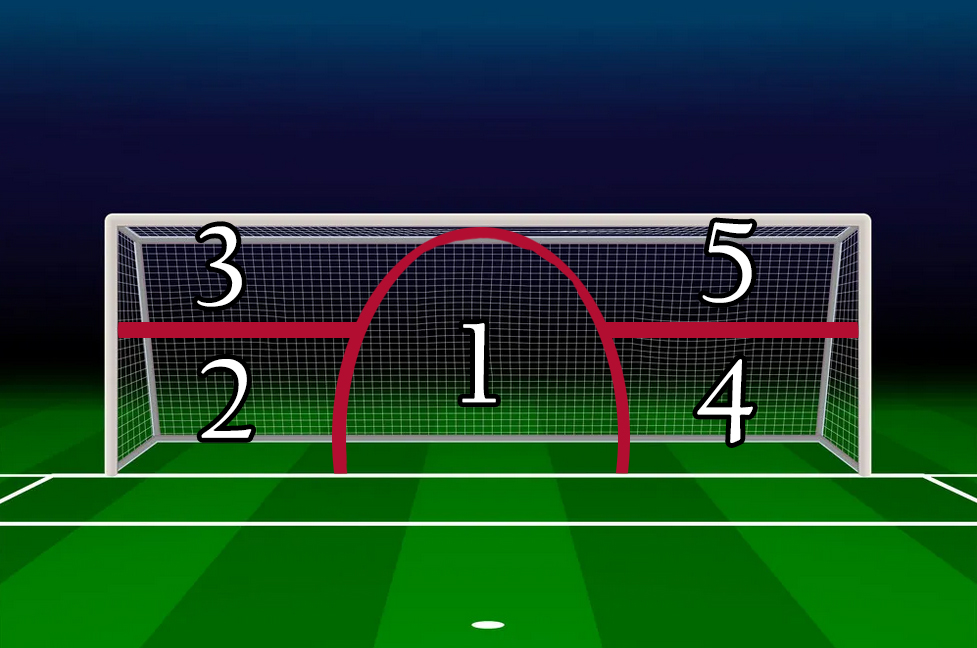
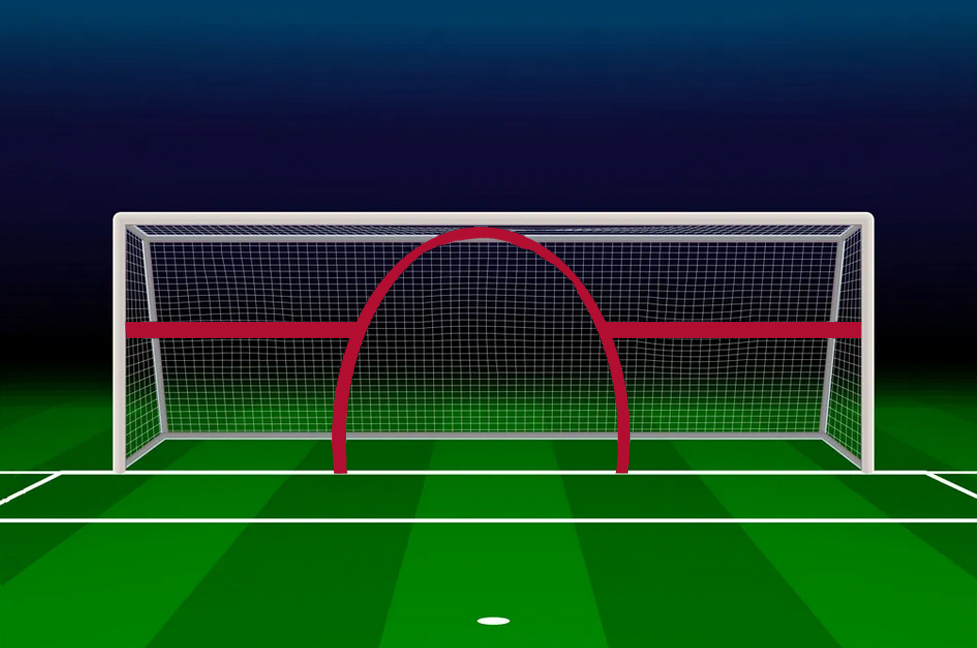
general styling

diff --git a/script.js b/script.js
@@ -14,8 +14,15 @@ let jugadoresPorDefecto = [
 ]
 
 window.addEventListener('load', () => {
-    jugadores = jugadoresPorDefecto.slice()
+    if (localStorage.getItem("savedPlayers") == null) {
+        jugadores = jugadoresPorDefecto.slice()
+    } else {
+        let savedContent = localStorage.getItem("savedPlayers")
+        jugadores = JSON.parse(savedContent)
+    }
     cargarListaPlantel(jugadores);
+    console.log("Jugadores:")
+    console.log(jugadores)
 });
 
 const reiniciarPuntajes = () => {
@@ -38,40 +45,61 @@ const esGol = (zonaElegida) => {
     return true
 }
 
-function patear() {
-    //Devuelve una cadena dependiendo la elección del jugador
-    while (true) {
-        index = intentos -1
-        let ingreso = prompt(" INTENTO N° " + intentos + "\nEjecuta " + jugadores[index].nombre + " " + jugadores[index].apellido + " con la casaca n° " + jugadores[index].camiseta + "\nIngrese a dónde quiere patear... \n Puede tomar la imagen de referencia! \n cancelar para salir ")
-        if (ingreso === null) {
-            return "salir"
+
+function patear(ingreso) {
+    console.log("=== COMIENZO DE PATADA ===")
+    console.log("kickbuttons:" + kickButtons)
+    
+    for (let kb of kickButtons){
+        kb.style.visibility = "hidden"
+    }
+    
+    intentos++
+    console.log("Se pateó a " + ingreso)
+    console.log("intentos:" + intentos)
+    let index = intentos - 1
+    console.log("index :" + index)
+    let messageWindow = document.createElement("div")
+    messageWindow.className="message-window"    
+    messageWindow.innerHTML = `
+    <h3>INTENTO N° ${intentos}</h3><p>Ejecuta ${jugadores[index].nombre} ${jugadores[index].apellido}</p><p>con la casaca n°  ${jugadores[index].camiseta}</p>
+    `
+    playArea.appendChild(messageWindow)
+    
+    let mensajePenal = "<p>Se prepara "+ jugadores[index].apellido + " ...</p>"
+    if (ingreso === 1) {
+        mensajePenal += "<p>Patea al mediooo...</p>"
+    } else if (ingreso % 2 === 0) {
+        mensajePenal += "<p>Patea abajooo...</p>"
+    } else {
+        mensajePenal += "<p>Dispara al angulooo....</p>"
+    }
+    if (esGol(ingreso)) {
+        mensajePenal += "</p>GOOOOOOOL!</p>"
+    } else {
+        mensajePenal += "</p>ATAJÓ EL ARQUERO!</p>"
+    }
+    setTimeout( () => {
+        messageWindow.innerHTML = `<p>${mensajePenal}</p>`
+    } , 3000)
+    setTimeout( () => {
+        messageWindow.remove()
+        for (let kb of kickButtons) {
+            kb.style.visibility = "visible"
         }
-        if (isNaN(ingreso)) {
-            alert("Debe ingresar sólo números! Intente nuevamente...")
-        } else if (!Number.isInteger(Number(ingreso))) {
-            alert("Debe ingresar sólo números enteros! Intente nuevamente...")
-        } else if (ingreso < 1 || ingreso > 5) {
-            alert("Ingreso inválido! Intente nuevamente...")
-        } else {
-            // zonaElegida = ingreso
-            let mensajePenal = "Se prepara "+ jugadores[index].apellido + " ...\n"
-            if (ingreso === 1) {
-                mensajePenal += "Patea al mediooo... \n"
-            } else if (ingreso % 2 === 0) {
-                mensajePenal += "Patea abajooo...\n"
-            } else {
-                mensajePenal += "Dispara al angulooo....\n"
-            }
-            
-            if (esGol(ingreso)) {
-                alert(mensajePenal + "GOOOOOOOL!")
-                return "gol"
-            } else {
-                alert(mensajePenal + "ATAJÓ EL ARQUERO!")
-                return "atajo"
-            }
+        if (intentos === 5 ){
+            terminarPartida()
         }
     }
+    , 6000)
+}
+
+
+
+const terminarPartida = () => {
+    alert("Excelente juego! Pero todavía falta para Qatar...\n Mientras podes jugar de nuevo!")
+    reiniciarPuntajes()
+    playArea.style.display = "none";
 }
 
 const anotador = (intento, resultado) => {
@@ -84,8 +112,6 @@ const anotador = (intento, resultado) => {
     tableroResultado += str
 }
 
-
-
 const jugar = () => {
     
     if (jugadores.length < 5) {
@@ -95,40 +121,20 @@ const jugar = () => {
         console.log("-- Comienzo del juego --")
         alert("Bienvenido al pateapenales! \n Debe anotar al menos 4 goles para ser el campeón!\n Para patear o atajar, ingrese un número del 1 al 5 \n Quién ganará?")
         
-        while (intentos < 5){
-            intentos += 1
-            console.log("Intento n° " + intentos)
-            patada = patear()
-            switch (patada) {
-                case "gol":
-                resultado += 1
-                anotador(intentos, "gol")
-                break
-                case "atajo":
-                anotador(intentos, "atajo")
-                break
-                case "salir":
-                intentos = 6
-                alert("adiós!")
-                console.log("-- Juego cancelado --")
-                break
-            }
-            if (intentos < 5){
-                alert ("Resultado parcial:\n" + tableroResultado)
-            } else if (intentos === 5) {
-                mensajeFinal="Fin del juego! Resultado:\n" + tableroResultado  
-                if (resultado > 3) {
-                    mensajeFinal += "\n 🏆 Ganador! 🏆"
-                } else {
-                    mensajeFinal += "\n Perdedor!"
-                }
-                alert(mensajeFinal)
-                console.log("-- Fin del juego --")
-            }
-        }
-        alert("Excelente juego! Pero todavía falta para Qatar...\n Mientras podes jugar de nuevo!")
+        playArea.style.display = "block"
         
-        reiniciarPuntajes()
+        let middleKick = document.getElementById("middle-kick")
+        middleKick.addEventListener("click",  () => { patear(1)})
+        let bottomLeftKick = document.getElementById("bottom-left-kick")
+        bottomLeftKick.addEventListener("click", () => { patear(2)})
+        let topLeftKick = document.getElementById("top-left-kick")
+        topLeftKick.addEventListener("click", () => { patear(3)})
+        let bottomRightKick = document.getElementById("bottom-right-kick")
+        bottomRightKick.addEventListener("click", () => { patear(4)})
+        let topRightKick = document.getElementById("top-right-kick")
+        topRightKick.addEventListener("click", () => { patear(5)})
+        
+        
     }
 }
 
@@ -227,16 +233,6 @@ const cargarJugadores = () => {
     console.log("=== Fin carga de jugadores ===")
 }
 
-// const cargarListaPlantel = (jugadores) => {
-//     let plantel = document.getElementById("player-list")
-//     plantel.innerHTML = ""
-//     for (jugador of jugadores){
-//         let parrafoNewPlayer = document.createElement("p")
-//         parrafoNewPlayer.innerText = jugador.nombre + " " + jugador.apellido +  " -> N° " + jugador.camiseta
-//         plantel.appendChild(parrafoNewPlayer)
-//     }
-// }
-
 const cargarListaPlantel = (jugadores) => {
     
     let plantel = document.getElementById("team-container")
@@ -255,50 +251,19 @@ const cargarListaPlantel = (jugadores) => {
         plantel.append(playerCard)
     });
     
+    let JSONJugadores = JSON.stringify(jugadores)
+    localStorage.setItem("savedPlayers", JSONJugadores)
+    
 }
-
-// const borrarJugador = () => {
-//     console.log("=== Comienzo de borrado ===")
-//     let shirtNumber = document.getElementById("delete-shirt-number").value
-//     console.log("ShirtNumber: " +shirtNumber)
-
-//     if (!chequearCamiseta(shirtNumber)){
-//         alert("Sólo ingresar números de camiseta entre 1 y 99")
-
-//     }else if (!camisetaEnUso(shirtNumber, jugadores)){
-//         console.log("=== Jugador no encontrado! ===")
-//         alert("No existe ese jugador!")
-
-//     } else {
-//         console.log("=== Jugador encontrado! ===")
-//         const indice = jugadores.findIndex(object => object.camiseta === Number(shirtNumber))
-//         jugadores.splice(indice, 1)
-//         cargarListaPlantel(jugadores)
-//         console.log("=== Borrado exitoso! ===")
-//         document.getElementById("delete-shirt-number").value = ""
-//     }
-// }
 
 const borrarJugador = (jugadorCamiseta) => {
     console.log("=== Comienzo de borrado ===")
-    // let shirtNumber = document.getElementById("delete-shirt-number").value
     console.log("ShirtNumber: " +jugadorCamiseta)
     
-    // if (!chequearCamiseta(shirtNumber)){
-    //     alert("Sólo ingresar números de camiseta entre 1 y 99")
-    
-    // }else if (!camisetaEnUso(shirtNumber, jugadores)){
-    //     console.log("=== Jugador no encontrado! ===")
-    //     alert("No existe ese jugador!")
-    
-    // } else {
-    // console.log("=== Jugador encontrado! ===")
     const indice = jugadores.findIndex(object => object.camiseta === Number(jugadorCamiseta))
     jugadores.splice(indice, 1)
     cargarListaPlantel(jugadores)
     console.log("=== Borrado exitoso! ===")
-    // document.getElementById("delete-shirt-number").value = ""
-    // }
 }
 
 
@@ -313,15 +278,14 @@ const borrarTodo = () => {
 const cargarDefault = () => {
     if (confirm("Está seguro de que desea cargar los valores por defecto?")){
         jugadores.splice(0, jugadores.length)
-        console.log(jugadoresPorDefecto)
         jugadores = jugadoresPorDefecto.slice()
-        console.log(jugadores)
         cargarListaPlantel(jugadores);
     }
 }
 
-// let borrarJugadorButton = document.getElementsByClassName("delete-player")
-// borrarJugadorButton.addEventListener("click", borrarJugador(borrarJugadorButton))
+let playArea = document.getElementById("play-area")
+
+let kickButtons = document.getElementById("play-area").children
 
 let startSubmit = document.getElementById("start-play")
 startSubmit.addEventListener("click", jugar)
@@ -337,3 +301,4 @@ deleteAllSubmit.addEventListener("click", borrarTodo)
 
 let loadDefaultSubmit = document.getElementById("load-default-submit")
 loadDefaultSubmit.addEventListener("click", cargarDefault)
+

diff --git a/style.css b/style.css
@@ -3,7 +3,7 @@
     padding: 0;
 }
 body {
-    background-color: rgb(54, 54, 54);
+    /* background-color: rgb(54, 54, 54); */
 }
 .boton {
     height: 80px;
@@ -72,4 +72,61 @@ body {
 
 #player-list > p {
     font-size: 1.5em;
+}
+
+#play-area {
+    display: none;
+    margin: auto;
+    width: 977px;
+    height: 648px;
+    background-image: url(./img/goal.jpg);
+}
+
+#play-area .kick {
+    height: 80px;
+    width: 80px;
+    font-size: 30pt;
+    background: none;
+    border: none;
+
+}
+
+#play-area .kick:hover {
+    background-color: rgba(230, 247, 139, 09);
+}
+
+#top-left-kick {
+    position: relative;
+    top: 230px;
+    right: 120px;
+}
+
+#top-right-kick {
+    position: relative;
+    top: 230px;
+    left: 320px;
+}
+
+#middle-kick {
+    position: relative;
+    top: 320px;
+}
+
+#bottom-left-kick {
+    position: relative;
+    top: 400px;
+    right: 380px;
+}
+
+#bottom-right-kick {
+    position: relative;
+    top: 400px;
+    left: 75px;
+}
+
+.message-window {
+    margin: auto;
+    width: 90%;
+    height: 90%;
+    background-color: rgba(255, 255, 255, 0.7);
 }

diff --git a/index.html b/index.html
@@ -26,14 +26,22 @@
             <p>⚽ ⚽ ⚽ ⚽ ⚽ </p>
             <button class="boton btn btn-outline-primary" id="start-play">Para comenzar apretame</button>
             <a class="boton boton-jugadores btn btn-outline-primary" href="#player-form"> Cargar jugadores </a>
+        </div>
 
-
+        <div id="play-area">
+            <button class="kick" id="top-left-kick">⚽</button>
+            <button class="kick" id="top-right-kick">⚽</button>
+            <button class="kick" id="middle-kick">⚽</button>
+            <button class="kick" id="bottom-left-kick">⚽</button>
+            <button class="kick" id="bottom-right-kick">⚽</button>
         </div>
 
         <h3>Equipo</h3>
         <div class="team-container" id="team-container">
-
         </div>
+
+
+
         <!-- <img class="img-goal" src="./img/goal.jpg" alt="arco de fútbol"> -->
 
         <h3>Armá tu dream team acá 👇</h3>
